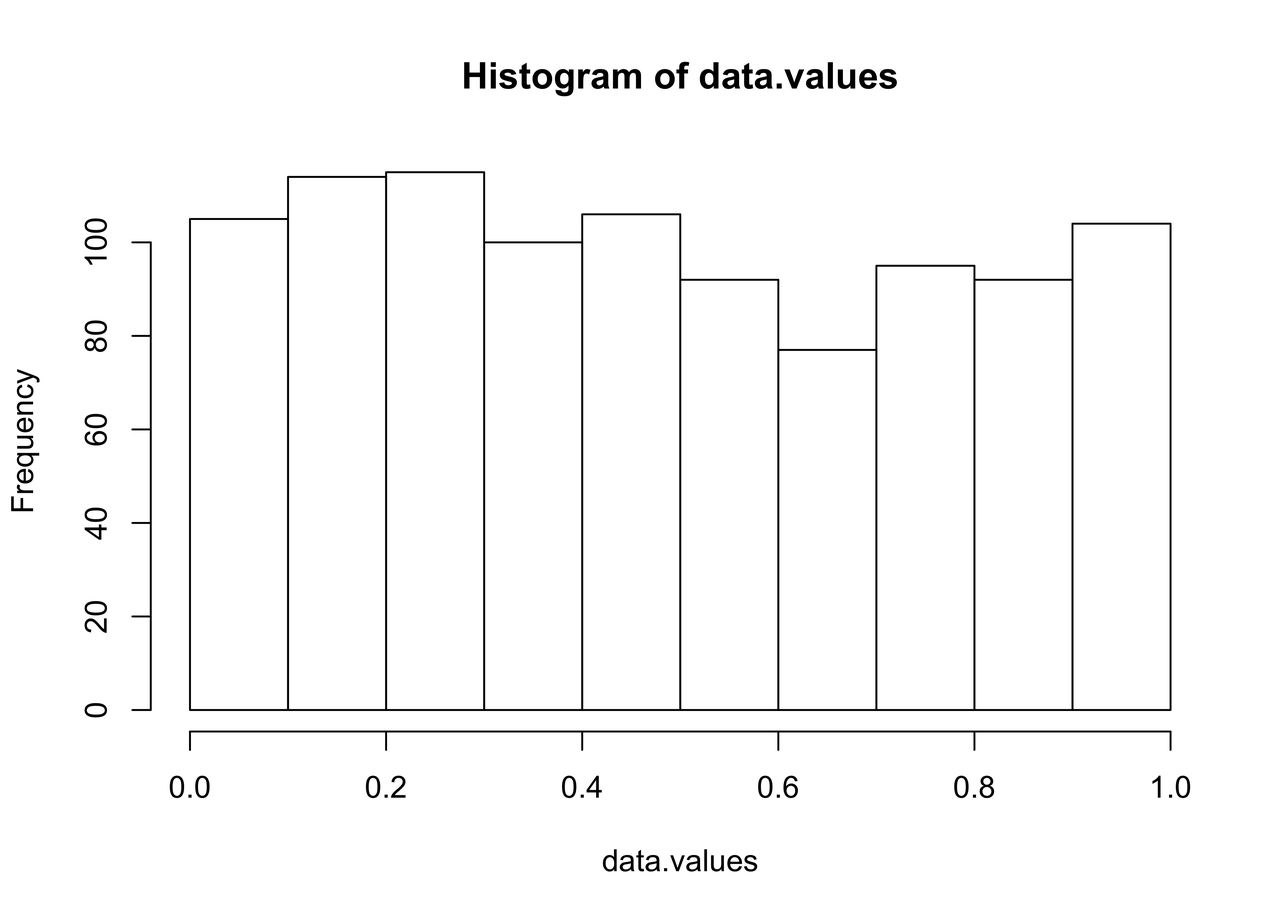
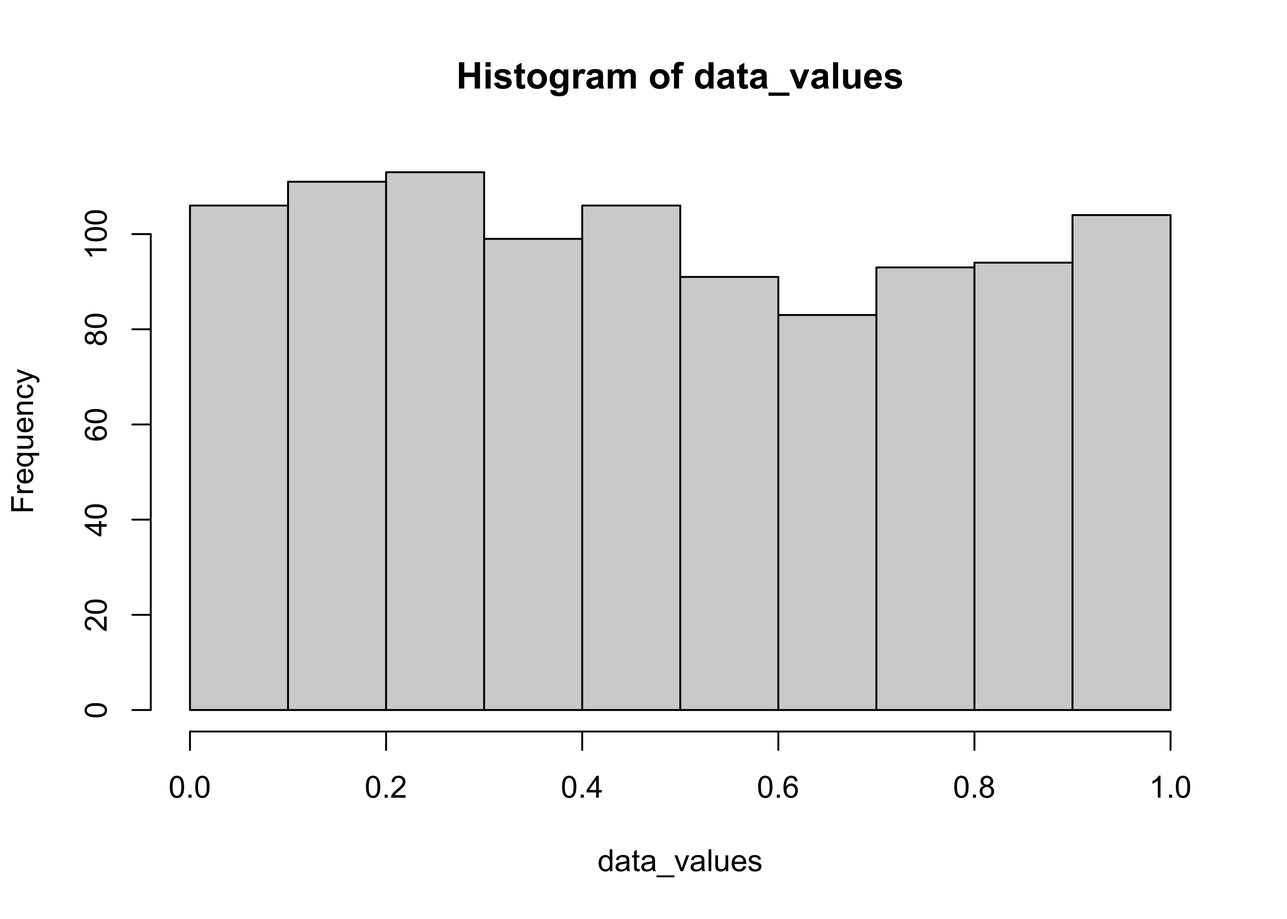
edited lec10.Rmd

diff --git a/docs/lec10.html b/docs/lec10.html
@@ -535,108 +535,108 @@ $(document).ready(function () {
 <p>Here is a demonstration using simulated data and repeated samples of different sizes</p>
 <div class="sourceCode" id="cb1"><pre class="sourceCode r"><code class="sourceCode r"><a class="sourceLine" id="cb1-1" data-line-number="1"><span class="co"># generate 1000 random numbers from the normal distribution</span></a>
 <a class="sourceLine" id="cb1-2" data-line-number="2">npts &lt;-<span class="st"> </span><span class="dv">1000</span></a>
-<a class="sourceLine" id="cb1-3" data-line-number="3">demo.mean &lt;-<span class="st"> </span><span class="dv">5</span>; demo.sd &lt;-<span class="st"> </span><span class="dv">2</span></a>
-<a class="sourceLine" id="cb1-4" data-line-number="4">data.values &lt;-<span class="st"> </span><span class="kw">rnorm</span>(npts, demo.mean, demo.sd)</a>
-<a class="sourceLine" id="cb1-5" data-line-number="5"><span class="kw">hist</span>(data.values); <span class="kw">mean</span>(data.values); <span class="kw">sd</span>(data.values)</a></code></pre></div>
+<a class="sourceLine" id="cb1-3" data-line-number="3">demo_mean &lt;-<span class="st"> </span><span class="dv">5</span>; demo_sd &lt;-<span class="st"> </span><span class="dv">2</span></a>
+<a class="sourceLine" id="cb1-4" data-line-number="4">data_values &lt;-<span class="st"> </span><span class="kw">rnorm</span>(npts, demo_mean, demo_sd)</a>
+<a class="sourceLine" id="cb1-5" data-line-number="5"><span class="kw">hist</span>(data_values); <span class="kw">mean</span>(data_values); <span class="kw">sd</span>(data_values)</a></code></pre></div>
 <p><img src="lec10_files/figure-html/semean01-1.png" width="2100" /></p>
-<pre><code>## [1] 4.906464</code></pre>
-<pre><code>## [1] 2.004611</code></pre>
+<pre><code>## [1] 4.885482</code></pre>
+<pre><code>## [1] 2.000486</code></pre>
 <p>Set the number of replications <code>nreps</code> and the (maximum) sample size</p>
 <div class="sourceCode" id="cb4"><pre class="sourceCode r"><code class="sourceCode r"><a class="sourceLine" id="cb4-1" data-line-number="1">nreps &lt;-<span class="st"> </span><span class="dv">1000</span> <span class="co"># number of replications (samples) for each sample size</span></a>
-<a class="sourceLine" id="cb4-2" data-line-number="2">max.sample.size &lt;-<span class="st"> </span><span class="dv">100</span> <span class="co"># number of example sample sizes</span></a></code></pre></div>
+<a class="sourceLine" id="cb4-2" data-line-number="2">max_sample_size &lt;-<span class="st"> </span><span class="dv">100</span> <span class="co"># number of example sample sizes</span></a></code></pre></div>
 <p>Create several matrices to hold the individual replication results.</p>
 <div class="sourceCode" id="cb5"><pre class="sourceCode r"><code class="sourceCode r"><a class="sourceLine" id="cb5-1" data-line-number="1"><span class="co"># matrix to hold means of each of the nreps samples</span></a>
-<a class="sourceLine" id="cb5-2" data-line-number="2">mean.samp &lt;-<span class="st"> </span><span class="kw">matrix</span>(<span class="dv">1</span><span class="op">:</span>nreps)</a>
+<a class="sourceLine" id="cb5-2" data-line-number="2">mean_samp &lt;-<span class="st"> </span><span class="kw">matrix</span>(<span class="dv">1</span><span class="op">:</span>nreps)</a>
 <a class="sourceLine" id="cb5-3" data-line-number="3"><span class="co"># matrices to hold means, sd’s and sample sizes for for each n</span></a>
-<a class="sourceLine" id="cb5-4" data-line-number="4">average.means &lt;-<span class="st"> </span><span class="kw">matrix</span>(<span class="dv">1</span><span class="op">:</span>(max.sample.size<span class="dv">-1</span>))</a>
-<a class="sourceLine" id="cb5-5" data-line-number="5">sd.means &lt;-<span class="st"> </span><span class="kw">matrix</span>(<span class="dv">1</span><span class="op">:</span>(max.sample.size<span class="dv">-1</span>))</a>
-<a class="sourceLine" id="cb5-6" data-line-number="6">sample.size &lt;-<span class="st"> </span><span class="kw">matrix</span>(<span class="dv">1</span><span class="op">:</span>(max.sample.size<span class="dv">-1</span>))</a></code></pre></div>
-<p>Generate means for a range of sample sizes (1:max.sample.size)</p>
-<div class="sourceCode" id="cb6"><pre class="sourceCode r"><code class="sourceCode r"><a class="sourceLine" id="cb6-1" data-line-number="1"><span class="cf">for</span> (n <span class="cf">in</span> <span class="kw">seq</span>(<span class="dv">1</span>,max.sample.size<span class="dv">-1</span>)) {</a>
+<a class="sourceLine" id="cb5-4" data-line-number="4">average_means &lt;-<span class="st"> </span><span class="kw">matrix</span>(<span class="dv">1</span><span class="op">:</span>(max_sample_size<span class="dv">-1</span>))</a>
+<a class="sourceLine" id="cb5-5" data-line-number="5">sd_means &lt;-<span class="st"> </span><span class="kw">matrix</span>(<span class="dv">1</span><span class="op">:</span>(max_sample_size<span class="dv">-1</span>))</a>
+<a class="sourceLine" id="cb5-6" data-line-number="6">sample_size &lt;-<span class="st"> </span><span class="kw">matrix</span>(<span class="dv">1</span><span class="op">:</span>(max_sample_size<span class="dv">-1</span>))</a></code></pre></div>
+<p>Generate means for a range of sample sizes (1:max_sample_size)</p>
+<div class="sourceCode" id="cb6"><pre class="sourceCode r"><code class="sourceCode r"><a class="sourceLine" id="cb6-1" data-line-number="1"><span class="cf">for</span> (n <span class="cf">in</span> <span class="kw">seq</span>(<span class="dv">1</span>,max_sample_size<span class="dv">-1</span>)) {</a>
 <a class="sourceLine" id="cb6-2" data-line-number="2">   <span class="co"># for each sample size generate nreps samples and get their mean</span></a>
 <a class="sourceLine" id="cb6-3" data-line-number="3">   <span class="cf">for</span> (i <span class="cf">in</span> <span class="kw">seq</span>(<span class="dv">1</span>,nreps)) {</a>
-<a class="sourceLine" id="cb6-4" data-line-number="4">         samp &lt;-<span class="st"> </span><span class="kw">sample</span>(data.values, n<span class="op">+</span><span class="dv">1</span>, <span class="dt">replace=</span>T)</a>
-<a class="sourceLine" id="cb6-5" data-line-number="5">         mean.samp[i] &lt;-<span class="st"> </span><span class="kw">mean</span>(samp)</a>
+<a class="sourceLine" id="cb6-4" data-line-number="4">         samp &lt;-<span class="st"> </span><span class="kw">sample</span>(data_values, n<span class="op">+</span><span class="dv">1</span>, <span class="dt">replace=</span>T)</a>
+<a class="sourceLine" id="cb6-5" data-line-number="5">         mean_samp[i] &lt;-<span class="st"> </span><span class="kw">mean</span>(samp)</a>
 <a class="sourceLine" id="cb6-6" data-line-number="6">   }</a>
 <a class="sourceLine" id="cb6-7" data-line-number="7">   <span class="co"># get the average and standard deviation of the nreps means</span></a>
-<a class="sourceLine" id="cb6-8" data-line-number="8">   average.means[n] &lt;-<span class="st"> </span><span class="kw">apply</span>(mean.samp,<span class="dv">2</span>,mean)</a>
-<a class="sourceLine" id="cb6-9" data-line-number="9">   sd.means[n] &lt;-<span class="st"> </span><span class="kw">apply</span>(mean.samp,<span class="dv">2</span>,sd)</a>
-<a class="sourceLine" id="cb6-10" data-line-number="10">   sample.size[n] &lt;-<span class="st"> </span>n<span class="op">+</span><span class="dv">1</span></a>
+<a class="sourceLine" id="cb6-8" data-line-number="8">   average_means[n] &lt;-<span class="st"> </span><span class="kw">apply</span>(mean_samp,<span class="dv">2</span>,mean)</a>
+<a class="sourceLine" id="cb6-9" data-line-number="9">   sd_means[n] &lt;-<span class="st"> </span><span class="kw">apply</span>(mean_samp,<span class="dv">2</span>,sd)</a>
+<a class="sourceLine" id="cb6-10" data-line-number="10">   sample_size[n] &lt;-<span class="st"> </span>n<span class="op">+</span><span class="dv">1</span></a>
 <a class="sourceLine" id="cb6-11" data-line-number="11">}</a></code></pre></div>
 <p>Take a look at the means and the standard errors. Note that means remain essentially constant across the range of sample sizes, while the standard errors decrease rapidly (at first) with increasing sample size.</p>
-<div class="sourceCode" id="cb7"><pre class="sourceCode r"><code class="sourceCode r"><a class="sourceLine" id="cb7-1" data-line-number="1"><span class="kw">plot</span>(sample.size, average.means, <span class="dt">ylim=</span><span class="kw">c</span>(<span class="fl">4.5</span>, <span class="fl">5.5</span>), <span class="dt">pch=</span><span class="dv">16</span>)</a></code></pre></div>
+<div class="sourceCode" id="cb7"><pre class="sourceCode r"><code class="sourceCode r"><a class="sourceLine" id="cb7-1" data-line-number="1"><span class="kw">plot</span>(sample_size, average_means, <span class="dt">ylim=</span><span class="kw">c</span>(<span class="fl">4.5</span>, <span class="fl">5.5</span>), <span class="dt">pch=</span><span class="dv">16</span>)</a></code></pre></div>
 <p><img src="lec10_files/figure-html/semean05-1.png" width="2100" /></p>
-<div class="sourceCode" id="cb8"><pre class="sourceCode r"><code class="sourceCode r"><a class="sourceLine" id="cb8-1" data-line-number="1"><span class="kw">plot</span>(sample.size, sd.means, <span class="dt">pch=</span><span class="dv">16</span>)</a></code></pre></div>
+<div class="sourceCode" id="cb8"><pre class="sourceCode r"><code class="sourceCode r"><a class="sourceLine" id="cb8-1" data-line-number="1"><span class="kw">plot</span>(sample_size, sd_means, <span class="dt">pch=</span><span class="dv">16</span>)</a></code></pre></div>
 <p><img src="lec10_files/figure-html/semean05-2.png" width="2100" /></p>
-<div class="sourceCode" id="cb9"><pre class="sourceCode r"><code class="sourceCode r"><a class="sourceLine" id="cb9-1" data-line-number="1"><span class="kw">head</span>(<span class="kw">cbind</span>(average.means,sd.means,sample.size))</a></code></pre></div>
+<div class="sourceCode" id="cb9"><pre class="sourceCode r"><code class="sourceCode r"><a class="sourceLine" id="cb9-1" data-line-number="1"><span class="kw">head</span>(<span class="kw">cbind</span>(average_means,sd_means,sample_size))</a></code></pre></div>
 <pre><code>##          [,1]      [,2] [,3]
-## [1,] 4.882980 1.3868462    2
-## [2,] 4.895045 1.1498649    3
-## [3,] 4.922299 0.9979406    4
-## [4,] 4.882664 0.9078207    5
-## [5,] 4.935052 0.8436834    6
-## [6,] 4.941734 0.7536554    7</code></pre>
-<div class="sourceCode" id="cb11"><pre class="sourceCode r"><code class="sourceCode r"><a class="sourceLine" id="cb11-1" data-line-number="1"><span class="kw">tail</span>(<span class="kw">cbind</span>(average.means,sd.means,sample.size))</a></code></pre></div>
+## [1,] 4.869145 1.3837017    2
+## [2,] 4.919966 1.1305459    3
+## [3,] 4.898501 0.9996743    4
+## [4,] 4.901989 0.8757847    5
+## [5,] 4.899534 0.8201785    6
+## [6,] 4.885380 0.7307880    7</code></pre>
+<div class="sourceCode" id="cb11"><pre class="sourceCode r"><code class="sourceCode r"><a class="sourceLine" id="cb11-1" data-line-number="1"><span class="kw">tail</span>(<span class="kw">cbind</span>(average_means,sd_means,sample_size))</a></code></pre></div>
 <pre><code>##           [,1]      [,2] [,3]
-## [94,] 4.917387 0.2086091   95
-## [95,] 4.904899 0.1978738   96
-## [96,] 4.917019 0.1989712   97
-## [97,] 4.891055 0.2070056   98
-## [98,] 4.897282 0.2031153   99
-## [99,] 4.903792 0.1940056  100</code></pre>
+## [94,] 4.886368 0.2110815   95
+## [95,] 4.884759 0.2016839   96
+## [96,] 4.894875 0.1958151   97
+## [97,] 4.871323 0.1993095   98
+## [98,] 4.873961 0.2038435   99
+## [99,] 4.868781 0.1976714  100</code></pre>
 <p>Verify that the standard error of the mean is sigma/sqrt(n)</p>
-<div class="sourceCode" id="cb13"><pre class="sourceCode r"><code class="sourceCode r"><a class="sourceLine" id="cb13-1" data-line-number="1"><span class="kw">plot</span>(demo.sd<span class="op">/</span><span class="kw">sqrt</span>((<span class="dv">2</span><span class="op">:</span>max.sample.size)), sd.means, <span class="dt">pch=</span><span class="dv">16</span>)</a></code></pre></div>
+<div class="sourceCode" id="cb13"><pre class="sourceCode r"><code class="sourceCode r"><a class="sourceLine" id="cb13-1" data-line-number="1"><span class="kw">plot</span>(demo_sd<span class="op">/</span><span class="kw">sqrt</span>((<span class="dv">2</span><span class="op">:</span>max_sample_size)), sd_means, <span class="dt">pch=</span><span class="dv">16</span>)</a></code></pre></div>
 <p><img src="lec10_files/figure-html/semean06-1.png" width="2100" /></p>
 <p>Generate some data values, this time from a uniform distribution</p>
-<div class="sourceCode" id="cb14"><pre class="sourceCode r"><code class="sourceCode r"><a class="sourceLine" id="cb14-1" data-line-number="1"><span class="co"># data.values from a uniform distribution</span></a>
-<a class="sourceLine" id="cb14-2" data-line-number="2">data.values &lt;-<span class="st"> </span><span class="kw">runif</span>(npts, <span class="dv">0</span>, <span class="dv">1</span>)</a>
-<a class="sourceLine" id="cb14-3" data-line-number="3"><span class="kw">hist</span>(data.values); <span class="kw">mean</span>(data.values); <span class="kw">sd</span>(data.values)</a></code></pre></div>
+<div class="sourceCode" id="cb14"><pre class="sourceCode r"><code class="sourceCode r"><a class="sourceLine" id="cb14-1" data-line-number="1"><span class="co"># data_values from a uniform distribution</span></a>
+<a class="sourceLine" id="cb14-2" data-line-number="2">data_values &lt;-<span class="st"> </span><span class="kw">runif</span>(npts, <span class="dv">0</span>, <span class="dv">1</span>)</a>
+<a class="sourceLine" id="cb14-3" data-line-number="3"><span class="kw">hist</span>(data_values); <span class="kw">mean</span>(data_values); <span class="kw">sd</span>(data_values)</a></code></pre></div>
 <p><img src="lec10_files/figure-html/semean07-1.png" width="2100" /></p>
-<pre><code>## [1] 0.4829327</code></pre>
-<pre><code>## [1] 0.2918684</code></pre>
-<p>Rescale these values so that they have the same mean (<code>demo.mean</code>) and standard deviation (<code>demo.sd</code>) as in the previous example,</p>
-<div class="sourceCode" id="cb17"><pre class="sourceCode r"><code class="sourceCode r"><a class="sourceLine" id="cb17-1" data-line-number="1"><span class="co"># rescale the data.values so they have a mean of demo.mean</span></a>
-<a class="sourceLine" id="cb17-2" data-line-number="2"><span class="co"># and a standard deviation of demo.sd (standardize, then rescale)</span></a>
-<a class="sourceLine" id="cb17-3" data-line-number="3">data.values &lt;-<span class="st"> </span>(data.values<span class="op">-</span><span class="kw">mean</span>(data.values))<span class="op">/</span><span class="kw">sd</span>(data.values)</a>
-<a class="sourceLine" id="cb17-4" data-line-number="4"><span class="kw">mean</span>(data.values); <span class="kw">sd</span>(data.values)</a></code></pre></div>
-<pre><code>## [1] 6.328004e-17</code></pre>
+<pre><code>## [1] 0.4853015</code></pre>
+<pre><code>## [1] 0.2921011</code></pre>
+<p>Rescale these values so that they have the same mean (<code>demo_mean</code>) and standard deviation (<code>demo_sd</code>) as in the previous example,</p>
+<div class="sourceCode" id="cb17"><pre class="sourceCode r"><code class="sourceCode r"><a class="sourceLine" id="cb17-1" data-line-number="1"><span class="co"># rescale the data_values so they have a mean of demo_mean</span></a>
+<a class="sourceLine" id="cb17-2" data-line-number="2"><span class="co"># and a standard deviation of demo_sd (standardize, then rescale)</span></a>
+<a class="sourceLine" id="cb17-3" data-line-number="3">data_values &lt;-<span class="st"> </span>(data_values<span class="op">-</span><span class="kw">mean</span>(data_values))<span class="op">/</span><span class="kw">sd</span>(data_values)</a>
+<a class="sourceLine" id="cb17-4" data-line-number="4"><span class="kw">mean</span>(data_values); <span class="kw">sd</span>(data_values)</a></code></pre></div>
+<pre><code>## [1] 6.652579e-17</code></pre>
 <pre><code>## [1] 1</code></pre>
-<div class="sourceCode" id="cb20"><pre class="sourceCode r"><code class="sourceCode r"><a class="sourceLine" id="cb20-1" data-line-number="1">data.values &lt;-<span class="st"> </span>(data.values<span class="op">*</span>demo.sd)<span class="op">+</span>demo.mean</a>
-<a class="sourceLine" id="cb20-2" data-line-number="2"><span class="kw">hist</span>(data.values); <span class="kw">mean</span>(data.values); <span class="kw">sd</span>(data.values)</a></code></pre></div>
+<div class="sourceCode" id="cb20"><pre class="sourceCode r"><code class="sourceCode r"><a class="sourceLine" id="cb20-1" data-line-number="1">data_values &lt;-<span class="st"> </span>(data_values<span class="op">*</span>demo_sd)<span class="op">+</span>demo_mean</a>
+<a class="sourceLine" id="cb20-2" data-line-number="2"><span class="kw">hist</span>(data_values); <span class="kw">mean</span>(data_values); <span class="kw">sd</span>(data_values)</a></code></pre></div>
 <p><img src="lec10_files/figure-html/semean08-1.png" width="2100" /></p>
 <pre><code>## [1] 5</code></pre>
 <pre><code>## [1] 2</code></pre>
 <p>Repeat the demonstration</p>
-<div class="sourceCode" id="cb23"><pre class="sourceCode r"><code class="sourceCode r"><a class="sourceLine" id="cb23-1" data-line-number="1"><span class="cf">for</span> (n <span class="cf">in</span> <span class="kw">seq</span>(<span class="dv">1</span>,max.sample.size<span class="dv">-1</span>)) {</a>
+<div class="sourceCode" id="cb23"><pre class="sourceCode r"><code class="sourceCode r"><a class="sourceLine" id="cb23-1" data-line-number="1"><span class="cf">for</span> (n <span class="cf">in</span> <span class="kw">seq</span>(<span class="dv">1</span>,max_sample_size<span class="dv">-1</span>)) {</a>
 <a class="sourceLine" id="cb23-2" data-line-number="2">   <span class="co"># for each sample size generate nreps samples and get their mean</span></a>
 <a class="sourceLine" id="cb23-3" data-line-number="3">   <span class="cf">for</span> (i <span class="cf">in</span> <span class="kw">seq</span>(<span class="dv">1</span>,nreps)) {</a>
-<a class="sourceLine" id="cb23-4" data-line-number="4">         samp &lt;-<span class="st"> </span><span class="kw">sample</span>(data.values, n<span class="op">+</span><span class="dv">1</span>, <span class="dt">replace=</span>T)</a>
-<a class="sourceLine" id="cb23-5" data-line-number="5">         mean.samp[i] &lt;-<span class="st"> </span><span class="kw">mean</span>(samp)</a>
+<a class="sourceLine" id="cb23-4" data-line-number="4">         samp &lt;-<span class="st"> </span><span class="kw">sample</span>(data_values, n<span class="op">+</span><span class="dv">1</span>, <span class="dt">replace=</span>T)</a>
+<a class="sourceLine" id="cb23-5" data-line-number="5">         mean_samp[i] &lt;-<span class="st"> </span><span class="kw">mean</span>(samp)</a>
 <a class="sourceLine" id="cb23-6" data-line-number="6">   }</a>
 <a class="sourceLine" id="cb23-7" data-line-number="7">   <span class="co"># get the average and standard deviation of the nreps means</span></a>
-<a class="sourceLine" id="cb23-8" data-line-number="8">   average.means[n] &lt;-<span class="st"> </span><span class="kw">apply</span>(mean.samp,<span class="dv">2</span>,mean)</a>
-<a class="sourceLine" id="cb23-9" data-line-number="9">   sd.means[n] &lt;-<span class="st"> </span><span class="kw">apply</span>(mean.samp,<span class="dv">2</span>,sd)</a>
-<a class="sourceLine" id="cb23-10" data-line-number="10">   sample.size[n] &lt;-<span class="st"> </span>n<span class="op">+</span><span class="dv">1</span></a>
+<a class="sourceLine" id="cb23-8" data-line-number="8">   average_means[n] &lt;-<span class="st"> </span><span class="kw">apply</span>(mean_samp,<span class="dv">2</span>,mean)</a>
+<a class="sourceLine" id="cb23-9" data-line-number="9">   sd_means[n] &lt;-<span class="st"> </span><span class="kw">apply</span>(mean_samp,<span class="dv">2</span>,sd)</a>
+<a class="sourceLine" id="cb23-10" data-line-number="10">   sample_size[n] &lt;-<span class="st"> </span>n<span class="op">+</span><span class="dv">1</span></a>
 <a class="sourceLine" id="cb23-11" data-line-number="11">}</a>
-<a class="sourceLine" id="cb23-12" data-line-number="12"><span class="kw">plot</span>(sample.size, sd.means, <span class="dt">pch=</span><span class="dv">16</span>)</a></code></pre></div>
+<a class="sourceLine" id="cb23-12" data-line-number="12"><span class="kw">plot</span>(sample_size, sd_means, <span class="dt">pch=</span><span class="dv">16</span>)</a></code></pre></div>
 <p><img src="lec10_files/figure-html/semean09-1.png" width="2100" /></p>
-<div class="sourceCode" id="cb24"><pre class="sourceCode r"><code class="sourceCode r"><a class="sourceLine" id="cb24-1" data-line-number="1"><span class="kw">head</span>(<span class="kw">cbind</span>(average.means,sd.means,sample.size))</a></code></pre></div>
+<div class="sourceCode" id="cb24"><pre class="sourceCode r"><code class="sourceCode r"><a class="sourceLine" id="cb24-1" data-line-number="1"><span class="kw">head</span>(<span class="kw">cbind</span>(average_means,sd_means,sample_size))</a></code></pre></div>
 <pre><code>##          [,1]      [,2] [,3]
-## [1,] 5.076491 1.4218943    2
-## [2,] 4.973896 1.1748208    3
-## [3,] 5.006157 1.0423164    4
-## [4,] 5.018091 0.9066874    5
-## [5,] 5.037439 0.8329974    6
-## [6,] 4.947910 0.7866689    7</code></pre>
-<div class="sourceCode" id="cb26"><pre class="sourceCode r"><code class="sourceCode r"><a class="sourceLine" id="cb26-1" data-line-number="1"><span class="kw">tail</span>(<span class="kw">cbind</span>(average.means,sd.means,sample.size))</a></code></pre></div>
+## [1,] 5.040256 1.4365609    2
+## [2,] 5.072014 1.1364654    3
+## [3,] 4.979576 0.9994014    4
+## [4,] 4.997650 0.8747587    5
+## [5,] 5.014330 0.8533994    6
+## [6,] 5.014758 0.7700185    7</code></pre>
+<div class="sourceCode" id="cb26"><pre class="sourceCode r"><code class="sourceCode r"><a class="sourceLine" id="cb26-1" data-line-number="1"><span class="kw">tail</span>(<span class="kw">cbind</span>(average_means,sd_means,sample_size))</a></code></pre></div>
 <pre><code>##           [,1]      [,2] [,3]
-## [94,] 4.993303 0.2052575   95
-## [95,] 4.999219 0.2107304   96
-## [96,] 4.996054 0.2042940   97
-## [97,] 5.005953 0.2024509   98
-## [98,] 5.007782 0.1981763   99
-## [99,] 5.007413 0.2003017  100</code></pre>
-<p>This demonstrates that the standard error of the mean is insensitive to the underlying distribution of the data.</p>
+## [94,] 4.996266 0.2020135   95
+## [95,] 5.004224 0.1943945   96
+## [96,] 5.005490 0.2034202   97
+## [97,] 5.014969 0.1967694   98
+## [98,] 4.998495 0.2016952   99
+## [99,] 4.998972 0.1974246  100</code></pre>
+<p>This demonstrates that the standard error of the mean is insensitive to the underlying distribution of the data_</p>
 </div>
 <div id="confidence-intervals" class="section level2">
 <h2><span class="header-section-number">2.2</span> Confidence intervals</h2>
@@ -658,24 +658,24 @@ $(document).ready(function () {
 ##  3rd Qu.:10.678   3rd Qu.:30.25  
 ##  Max.   :13.826   Max.   :40.00</code></pre>
 <p>The idea here is to imagine that each group of 100 observations represents one possible sample of some underlying process or information set, that might occur in practice. These hypothetical samples (which are each equally likely) provide a mechanism for illustrating the range of values of the mean that could occur simply due to natural variability of the data, and the “confidence interal” is that range of values of the mean that enclose 90% of the possible mean values.</p>
-<p>Get the means and standard errors of each group.</p>
-<div class="sourceCode" id="cb31"><pre class="sourceCode r"><code class="sourceCode r"><a class="sourceLine" id="cb31-1" data-line-number="1">group.means &lt;-<span class="st"> </span><span class="kw">tapply</span>(NormDat, Group, mean)</a>
-<a class="sourceLine" id="cb31-2" data-line-number="2">group.sd &lt;-<span class="st"> </span><span class="kw">tapply</span>(NormDat, Group, sd)</a>
-<a class="sourceLine" id="cb31-3" data-line-number="3">group.npts &lt;-<span class="st"> </span><span class="kw">tapply</span>(NormDat, Group, length)</a>
-<a class="sourceLine" id="cb31-4" data-line-number="4">group.semean &lt;-<span class="st"> </span>(group.sd<span class="op">/</span>(<span class="kw">sqrt</span>(group.npts)))</a>
-<a class="sourceLine" id="cb31-5" data-line-number="5"><span class="kw">mean</span>(group.means)</a></code></pre></div>
+<p>Get the means and standard errors of each group_</p>
+<div class="sourceCode" id="cb31"><pre class="sourceCode r"><code class="sourceCode r"><a class="sourceLine" id="cb31-1" data-line-number="1">group_means &lt;-<span class="st"> </span><span class="kw">tapply</span>(NormDat, Group, mean)</a>
+<a class="sourceLine" id="cb31-2" data-line-number="2">group_sd &lt;-<span class="st"> </span><span class="kw">tapply</span>(NormDat, Group, sd)</a>
+<a class="sourceLine" id="cb31-3" data-line-number="3">group_npts &lt;-<span class="st"> </span><span class="kw">tapply</span>(NormDat, Group, length)</a>
+<a class="sourceLine" id="cb31-4" data-line-number="4">group_semean &lt;-<span class="st"> </span>(group_sd<span class="op">/</span>(<span class="kw">sqrt</span>(group_npts)))</a>
+<a class="sourceLine" id="cb31-5" data-line-number="5"><span class="kw">mean</span>(group_means)</a></code></pre></div>
 <pre><code>## [1] 9.991148</code></pre>
-<div class="sourceCode" id="cb33"><pre class="sourceCode r"><code class="sourceCode r"><a class="sourceLine" id="cb33-1" data-line-number="1"><span class="kw">sd</span>(group.means)</a></code></pre></div>
+<div class="sourceCode" id="cb33"><pre class="sourceCode r"><code class="sourceCode r"><a class="sourceLine" id="cb33-1" data-line-number="1"><span class="kw">sd</span>(group_means)</a></code></pre></div>
 <pre><code>## [1] 0.08264523</code></pre>
 <p>Plot the individual samples (top plot) and then the means, and their standard errors (bottom plot). Note the different scales on the plots.</p>
 <div class="sourceCode" id="cb35"><pre class="sourceCode r"><code class="sourceCode r"><a class="sourceLine" id="cb35-1" data-line-number="1"><span class="co"># plot means and data</span></a>
 <a class="sourceLine" id="cb35-2" data-line-number="2"><span class="kw">par</span>(<span class="dt">mfrow=</span><span class="kw">c</span>(<span class="dv">2</span>,<span class="dv">1</span>))</a>
 <a class="sourceLine" id="cb35-3" data-line-number="3"><span class="kw">plot</span>(Group, NormDat)</a>
-<a class="sourceLine" id="cb35-4" data-line-number="4"><span class="kw">points</span>(group.means, <span class="dt">col=</span><span class="st">&quot;red&quot;</span>, <span class="dt">pch=</span><span class="dv">16</span>)</a>
+<a class="sourceLine" id="cb35-4" data-line-number="4"><span class="kw">points</span>(group_means, <span class="dt">col=</span><span class="st">&quot;red&quot;</span>, <span class="dt">pch=</span><span class="dv">16</span>)</a>
 <a class="sourceLine" id="cb35-5" data-line-number="5"><span class="co"># plot means and standard errors of means</span></a>
-<a class="sourceLine" id="cb35-6" data-line-number="6"><span class="kw">plot</span>(group.means, <span class="dt">ylim=</span><span class="kw">c</span>(<span class="dv">9</span>, <span class="dv">11</span>), <span class="dt">col=</span><span class="st">&quot;red&quot;</span>, <span class="dt">pch=</span><span class="dv">16</span>, <span class="dt">xlab=</span><span class="st">&quot;Group&quot;</span>)</a>
-<a class="sourceLine" id="cb35-7" data-line-number="7"><span class="kw">points</span>(group.means <span class="op">+</span><span class="st"> </span><span class="fl">2.0</span><span class="op">*</span>group.semean , <span class="dt">pch=</span><span class="st">&quot;-&quot;</span>)</a>
-<a class="sourceLine" id="cb35-8" data-line-number="8"><span class="kw">points</span>(group.means <span class="op">-</span><span class="st"> </span><span class="fl">2.0</span><span class="op">*</span>group.semean , <span class="dt">pch=</span><span class="st">&quot;-&quot;</span>)</a>
+<a class="sourceLine" id="cb35-6" data-line-number="6"><span class="kw">plot</span>(group_means, <span class="dt">ylim=</span><span class="kw">c</span>(<span class="dv">9</span>, <span class="dv">11</span>), <span class="dt">col=</span><span class="st">&quot;red&quot;</span>, <span class="dt">pch=</span><span class="dv">16</span>, <span class="dt">xlab=</span><span class="st">&quot;Group&quot;</span>)</a>
+<a class="sourceLine" id="cb35-7" data-line-number="7"><span class="kw">points</span>(group_means <span class="op">+</span><span class="st"> </span><span class="fl">2.0</span><span class="op">*</span>group_semean , <span class="dt">pch=</span><span class="st">&quot;-&quot;</span>)</a>
+<a class="sourceLine" id="cb35-8" data-line-number="8"><span class="kw">points</span>(group_means <span class="op">-</span><span class="st"> </span><span class="fl">2.0</span><span class="op">*</span>group_semean , <span class="dt">pch=</span><span class="st">&quot;-&quot;</span>)</a>
 <a class="sourceLine" id="cb35-9" data-line-number="9"><span class="kw">abline</span>(<span class="dv">10</span>,<span class="dv">0</span>)</a></code></pre></div>
 <p><img src="lec10_files/figure-html/semean13-1.png" width="2100" /></p>
 <p>The bottom plot shows that out the 40 mean values (red dots), 2 (0.05 or 5 percent) have intervals (defined to be twice the standard error either side of the mean, black tick marks) that do not enclose the “true” value of the mean (10.0).</p>
@@ -744,8 +744,8 @@ $(document).ready(function () {
 </ul>
 <p>The shape of the <em>t</em> distribution can be visualized as follows (for df=30):</p>
 <div class="sourceCode" id="cb37"><pre class="sourceCode r"><code class="sourceCode r"><a class="sourceLine" id="cb37-1" data-line-number="1">x &lt;-<span class="st"> </span><span class="kw">seq</span>(<span class="op">-</span><span class="dv">3</span>,<span class="dv">3</span>, <span class="dt">by=</span>.<span class="dv">1</span>)</a>
-<a class="sourceLine" id="cb37-2" data-line-number="2">pdf.t &lt;-<span class="st"> </span><span class="kw">dt</span>(x,<span class="dv">3</span>)</a>
-<a class="sourceLine" id="cb37-3" data-line-number="3"><span class="kw">plot</span>(pdf.t <span class="op">~</span><span class="st"> </span>x, <span class="dt">type=</span><span class="st">&quot;l&quot;</span>)</a></code></pre></div>
+<a class="sourceLine" id="cb37-2" data-line-number="2">pdf_t &lt;-<span class="st"> </span><span class="kw">dt</span>(x,<span class="dv">3</span>)</a>
+<a class="sourceLine" id="cb37-3" data-line-number="3"><span class="kw">plot</span>(pdf_t <span class="op">~</span><span class="st"> </span>x, <span class="dt">type=</span><span class="st">&quot;l&quot;</span>)</a></code></pre></div>
 <p><img src="lec10_files/figure-html/ttest01-1.png" width="2100" /></p>
 <p>You can read about the origin of Gosset’s pseudonum (and his contributions to brewing) <a href="http://pubs.aeaweb.org/doi/pdfplus/10.1257/jep.22.4.199">here</a>.</p>
 <div id="the-t-test-for-assessing-differences-in-group-means" class="section level2">

diff --git a/docs/index.html b/docs/index.html
@@ -406,9 +406,6 @@ $(document).ready(function () {
 
 
 <p><img src="images/annp.png" /></p>
-<p>
-<span style="color: #00cc00;">NOTE: This is the course web page for the Spring 2020 offering of GEOG 4/595.<br> It is currently being updated for this quarter. </span>
-</p>
 <p><strong>GEOG 4/595: Spring 2020, Nominal Class Time 2:00-3:50 T&amp;Th</strong></p>
 <ul>
 <li>Topic: Visualization and Data Analysis</li>
